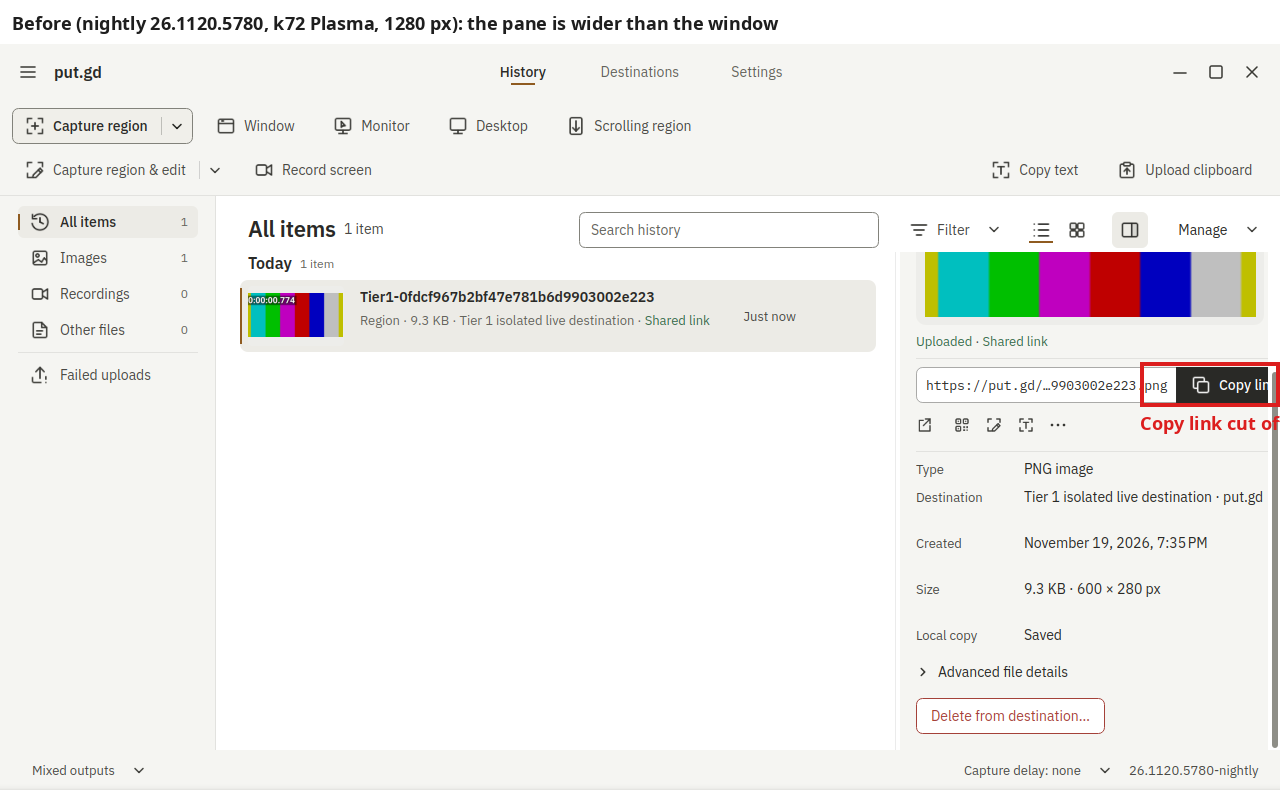
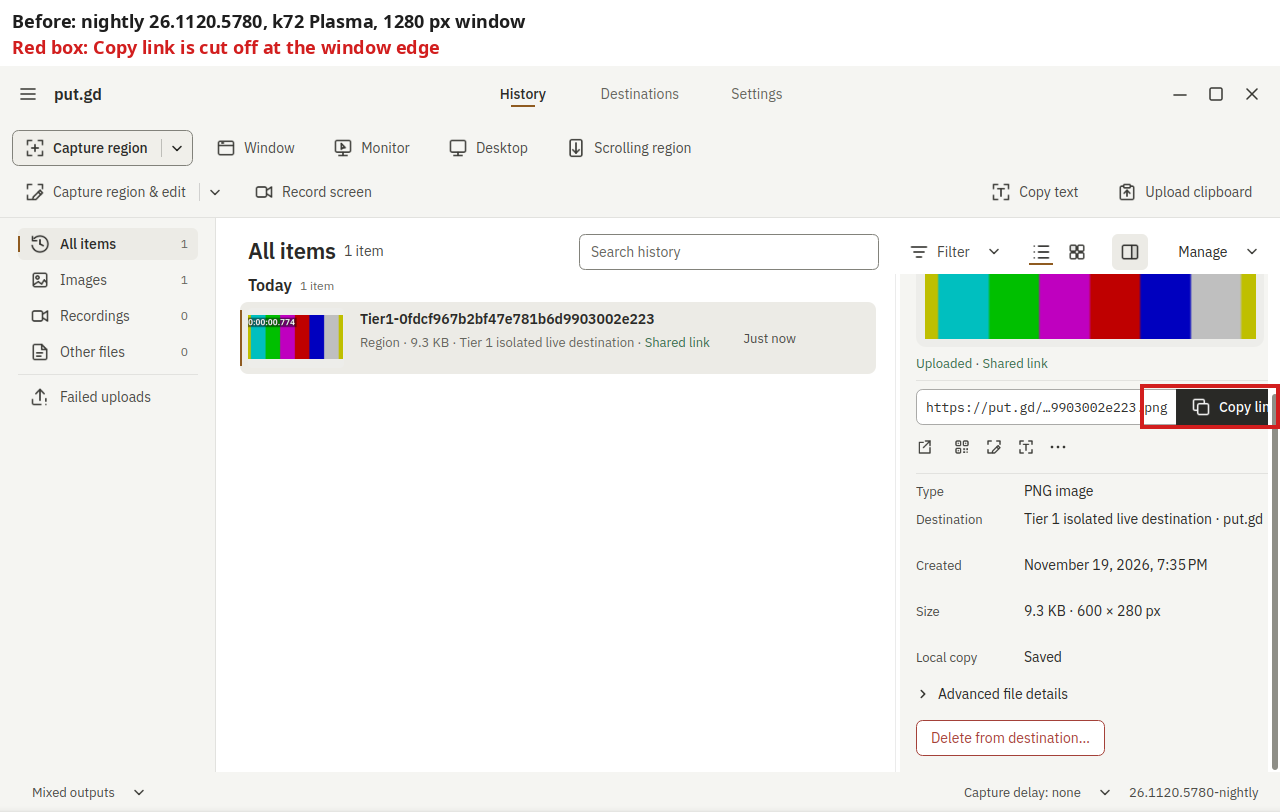
2026-11-20-history-details-unbroken-name: History details pane with a long unbroken file name (PR #1722)
Source: put.gd-desktop@3430d095cfb24c4d2666d62b35c0b79a3e431fc9
Evidence-Amend: captions moved into a band so labels no longer run off the frame; README wording

diff --git a/records/2026-11-20-history-details-unbroken-name/README.md b/records/2026-11-20-history-details-unbroken-name/README.md
@@ -11,4 +11,4 @@ Pictures for put.gd-desktop PR #1722, which keeps a file name with no break oppo
   profile through the nightly controller code. The name wraps inside the pane, the close button shows, and
   **Copy link** is whole. The cell and the whole k72 and aurora-amd rows passed (14 of 14).
 
-Frames are the surface driver's own frames from those receipts, cropped to nothing and annotated with boxes.
+Frames are the surface driver's own uncropped frames from those receipts, with a caption band and boxes added.
